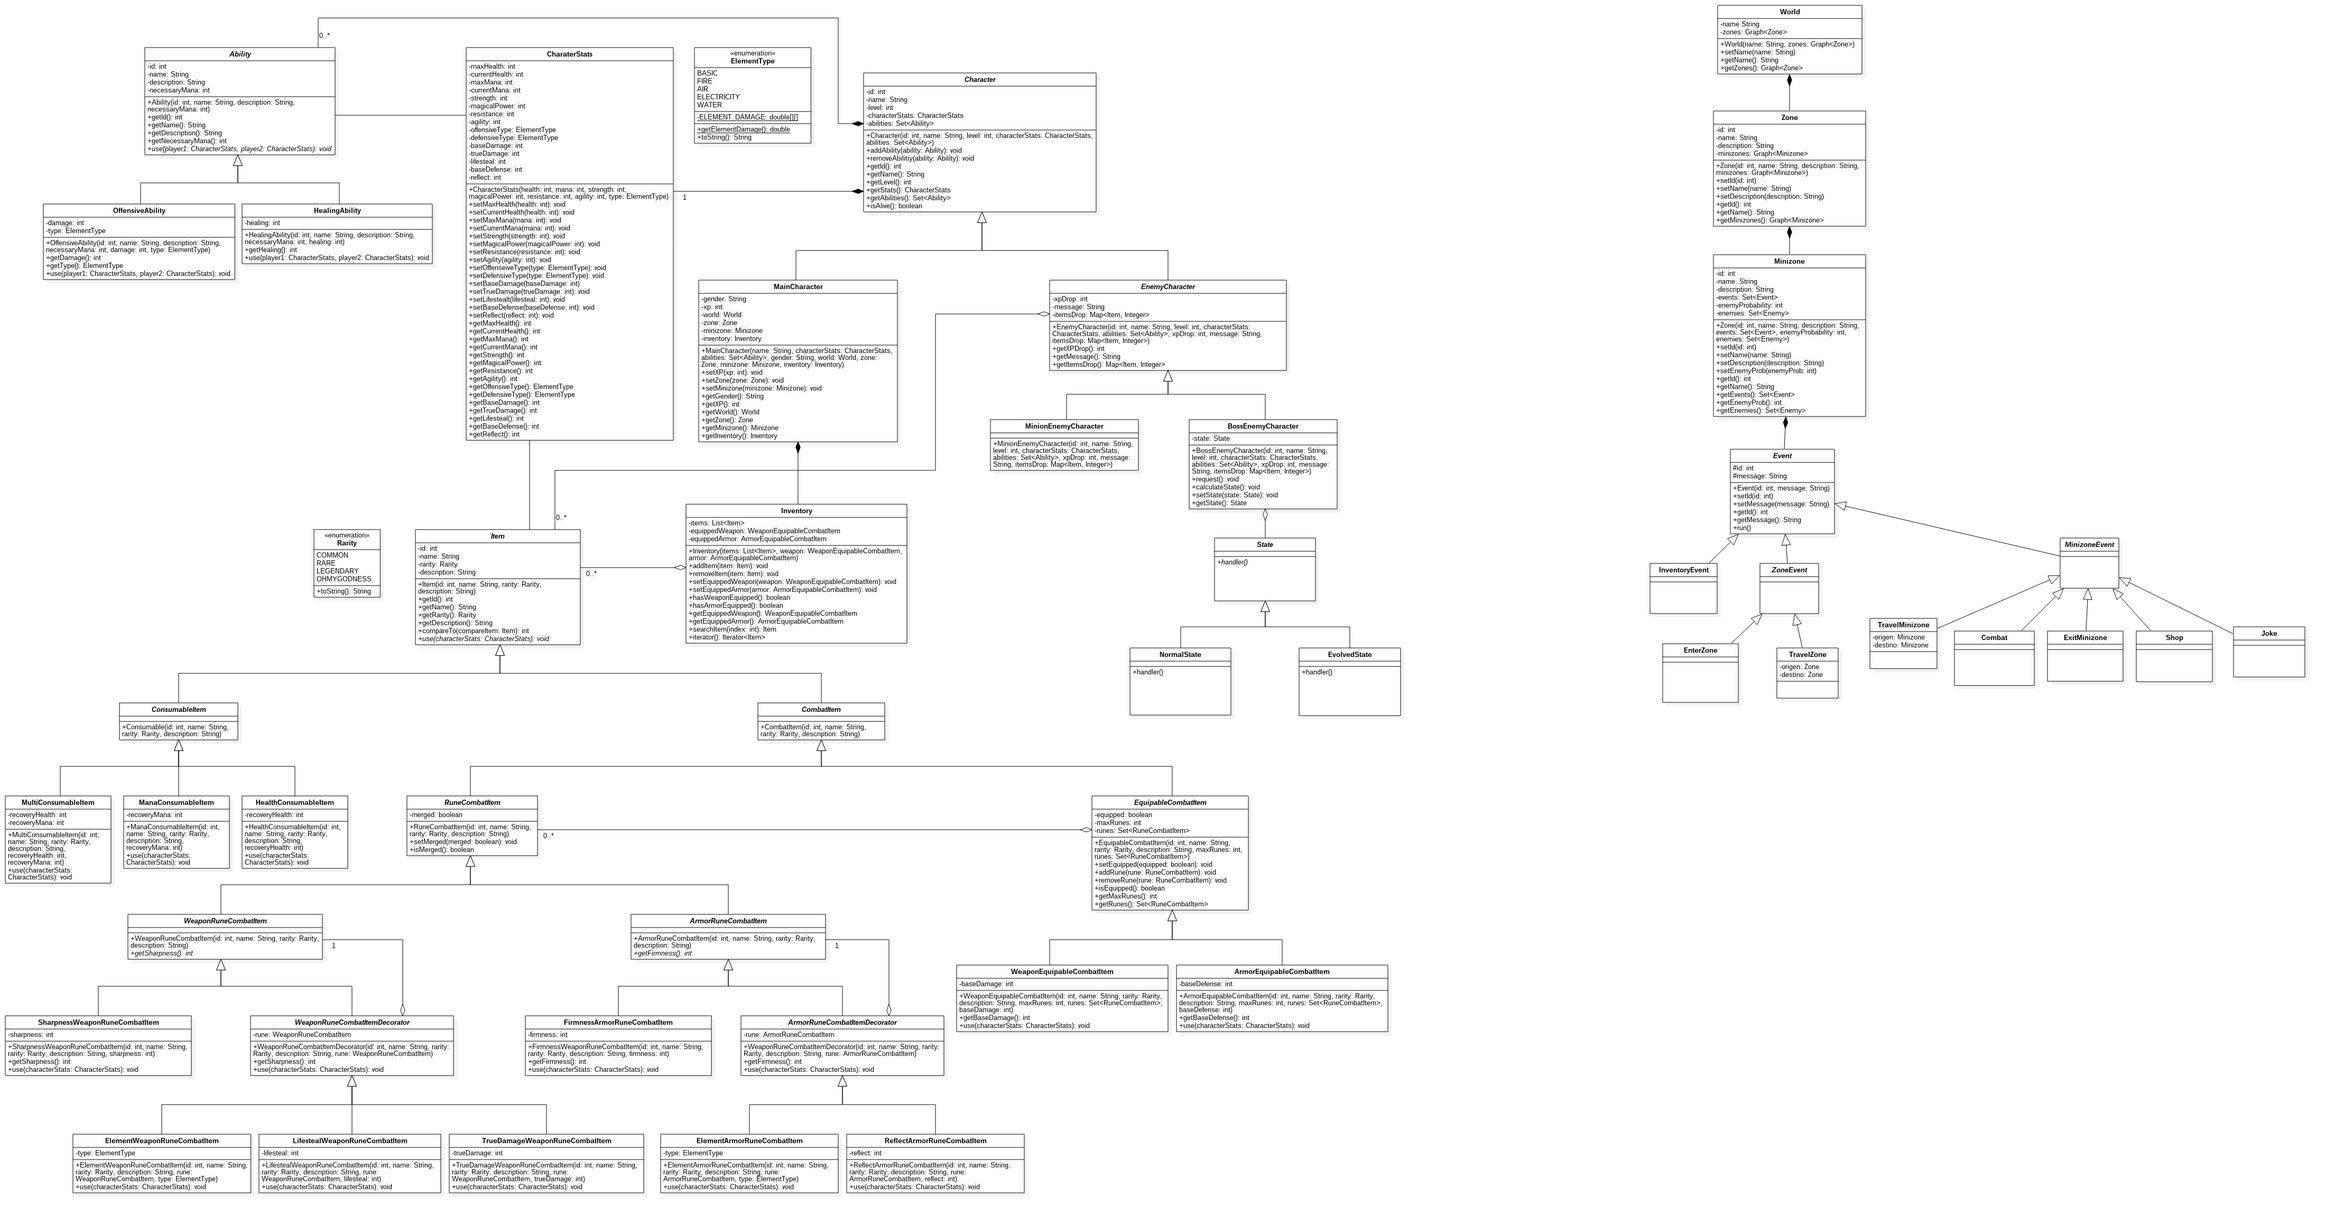
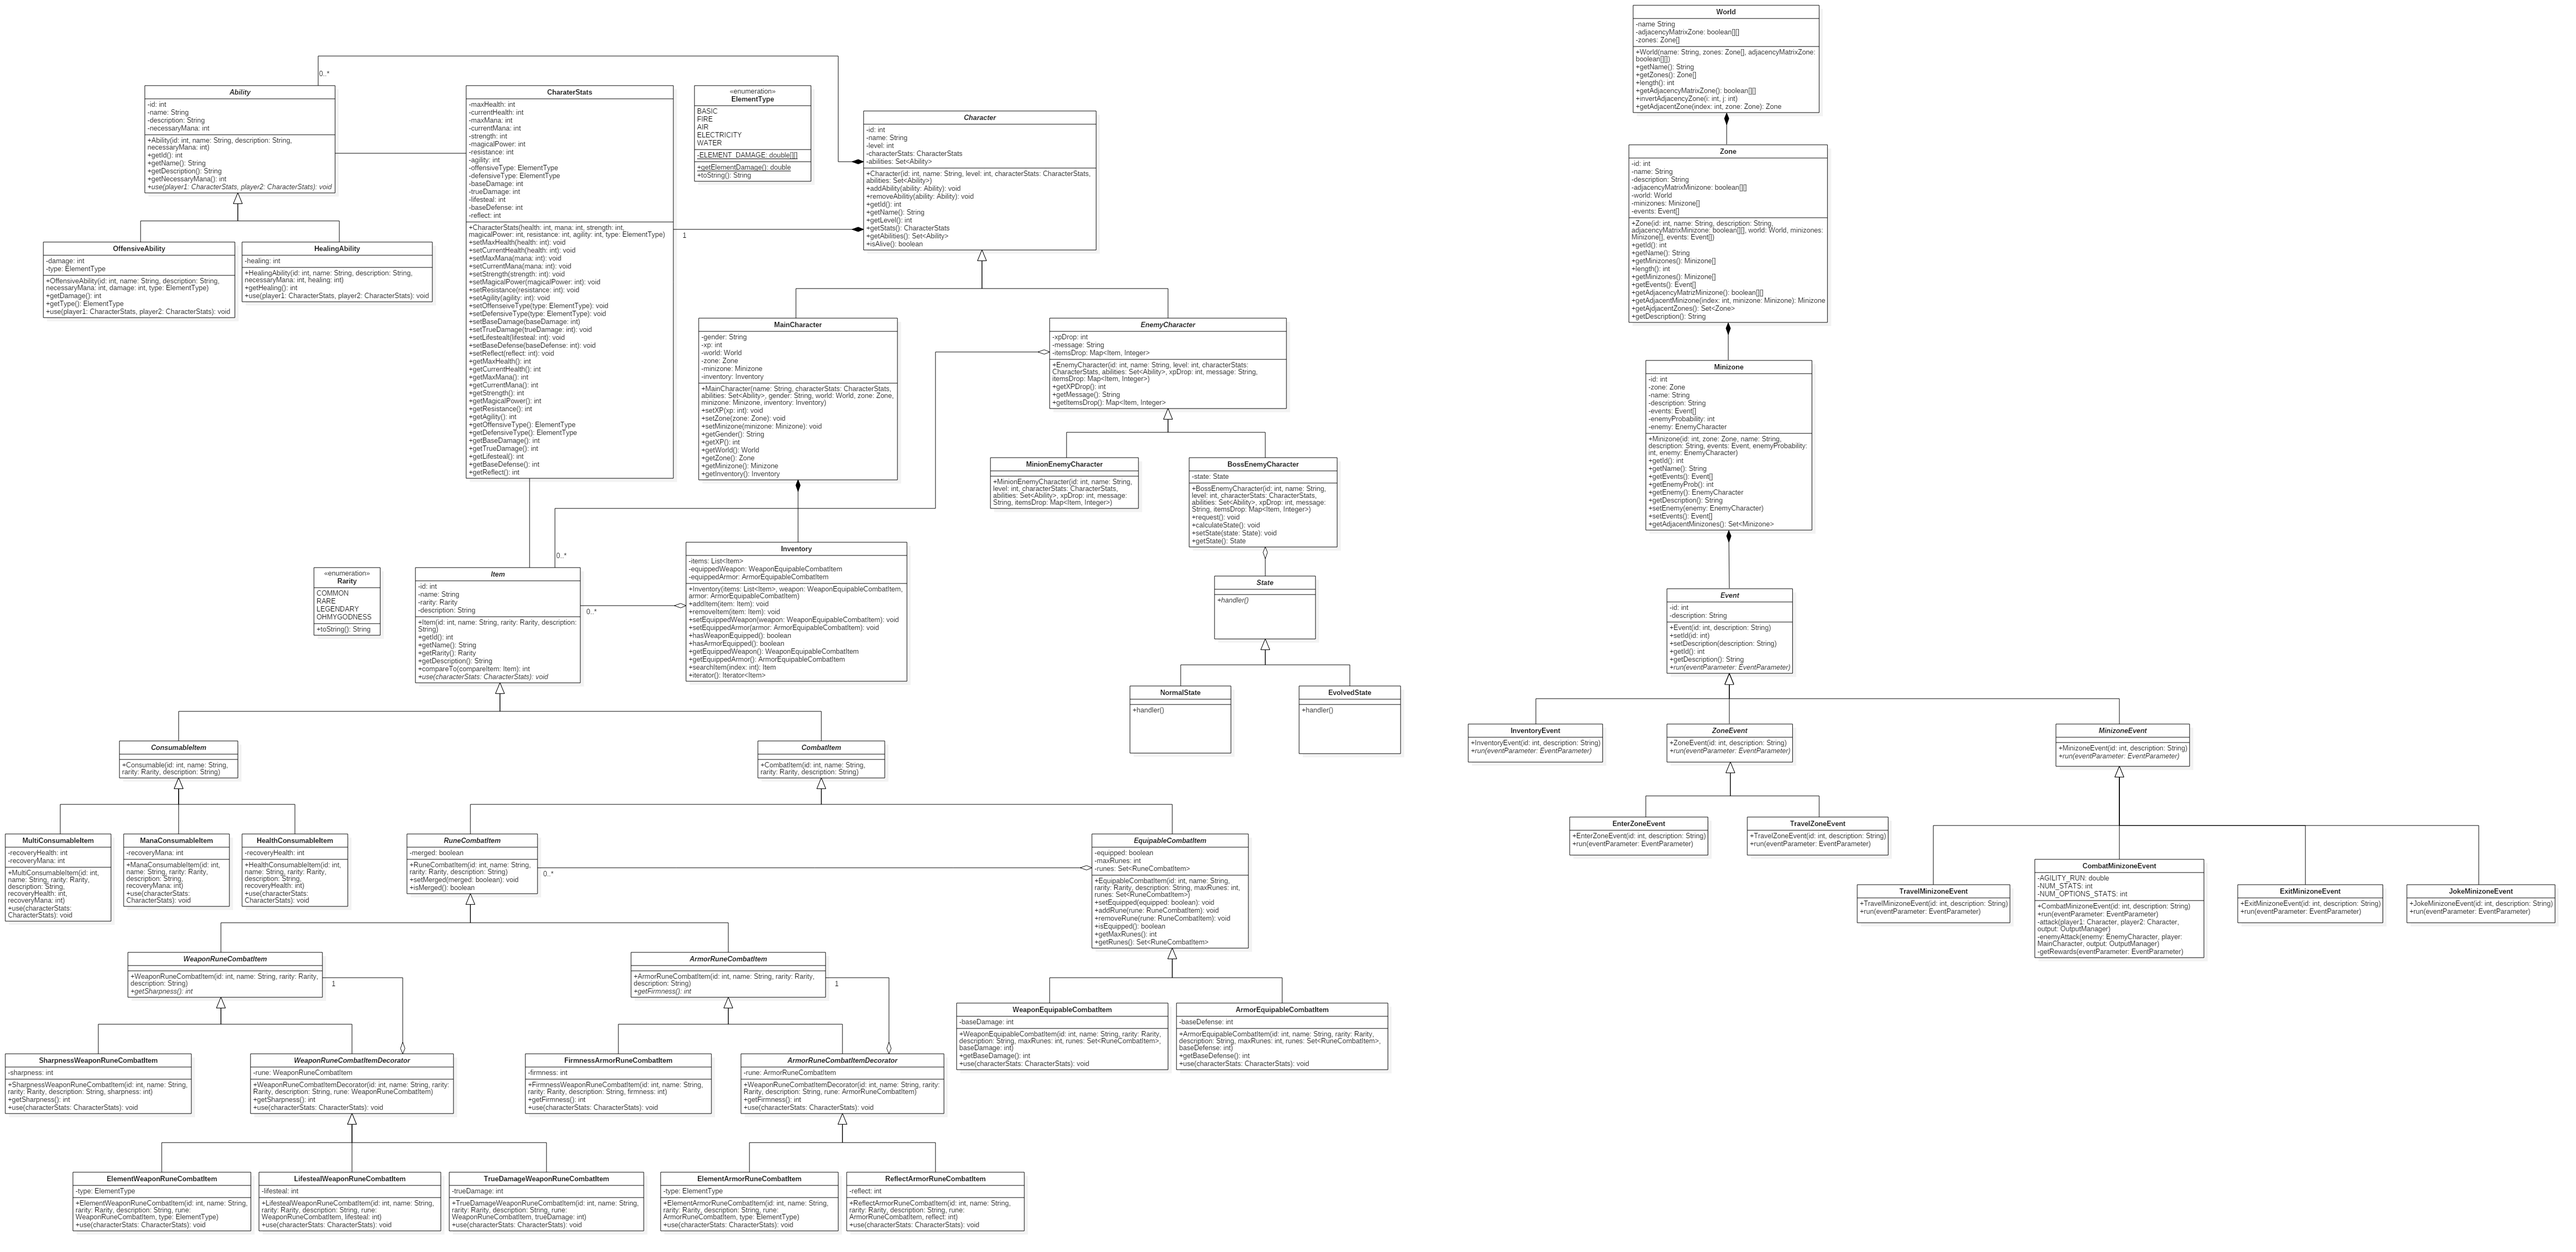
Updated UML Diagram + updated element types output + class names changes

diff --git a/game/src/main/java/com/projectdss/event/minizoneevent/CombatMinizoneEvent.java b/game/src/main/java/com/projectdss/event/minizoneevent/CombatMinizoneEvent.java
@@ -10,8 +10,7 @@ import com.projectdss.character.MainCharacter;
 import com.projectdss.character.EnemyCharacter;
 import com.projectdss.inventory.Inventory;
 import com.projectdss.Ability;
-import com.projectdss.ability.HealingAbility;
-import com.projectdss.ability.OffensiveAbility;
+import com.projectdss.ability.ElementAbility;
 import com.projectdss.Event;
 import com.projectdss.event.MinizoneEvent;
 import com.projectdss.event.EventParameter;
@@ -22,13 +21,13 @@ import com.projectdss.output.OutputManager;
  * 
  * 
  */
-public class CombatEvent extends MinizoneEvent {
+public class CombatMinizoneEvent extends MinizoneEvent {
 
     private static final double AGILITY_RUN = 1.5;
     private static final int NUM_STATS = 6;
     private static final int NUM_OPTIONS_STATS = 3;
 
-    public CombatEvent(int id, String description) {
+    public CombatMinizoneEvent(int id, String description) {
         super(id, description);
     }
 

diff --git a/game/src/main/java/com/projectdss/map/Zone.java b/game/src/main/java/com/projectdss/map/Zone.java
@@ -19,11 +19,12 @@ public class Zone {
     private final Event[] events;
     
     public Zone(int id, String name, String description,
-        boolean[][] adjacencyMatrixMinizone, Minizone[] minizones, Event[] events) {
+        boolean[][] adjacencyMatrixMinizone, World world, Minizone[] minizones, Event[] events) {
         this.id = id;
         this.name = name;
         this.description = description;
         this.adjacencyMatrixMinizone = adjacencyMatrixMinizone;
+        this.world = world;
         this.minizones = minizones;
         this.events = events;
     }
@@ -65,6 +66,7 @@ public class Zone {
                 ++counter;
             }
         }
+        return minizone;
     }
 
     public Set<Zone> getAdjacentZones() {

diff --git a/game/src/main/java/com/projectdss/event/minizoneevent/TravelMinizoneEvent.java b/game/src/main/java/com/projectdss/event/minizoneevent/TravelMinizoneEvent.java
@@ -9,8 +9,8 @@ import com.projectdss.map.Minizone;
  * 
  * @author Santiago Godoy Poce
  */
-public class TravelMinizone extends MinizoneEvent {
-    public TravelMinizone(int id, String description) {
+public class TravelMinizoneEvent extends MinizoneEvent {
+    public TravelMinizoneEvent(int id, String description) {
         super(id, description);
     }
 

diff --git a/game/src/main/java/com/projectdss/event/minizoneevent/JokeMinizoneEvent.java b/game/src/main/java/com/projectdss/event/minizoneevent/JokeMinizoneEvent.java
@@ -8,8 +8,8 @@ import com.projectdss.event.MinizoneEvent;
  * 
  * @author Santiago Godoy Poce
  */
-public class Joke extends MinizoneEvent {
-    public Joke(int id, String description) {
+public class JokeMinizoneEvent extends MinizoneEvent {
+    public JokeMinizoneEvent(int id, String description) {
         super(id, description);
     }
 

diff --git a/game/src/main/java/com/projectdss/event/minizoneevent/ExitMinizoneEvent.java b/game/src/main/java/com/projectdss/event/minizoneevent/ExitMinizoneEvent.java
@@ -10,8 +10,8 @@ import java.util.Set;
  * 
  * @author Santiago Godoy Poce
  */
-public class ExitMinizone extends MinizoneEvent {
-    public ExitMinizone(int id, String description) {
+public class ExitMinizoneEvent extends MinizoneEvent {
+    public ExitMinizoneEvent(int id, String description) {
         super(id, description);
     }
 

diff --git a/game/src/main/java/com/projectdss/event/zoneevent/EnterZoneEvent.java b/game/src/main/java/com/projectdss/event/zoneevent/EnterZoneEvent.java
@@ -9,8 +9,8 @@ import com.projectdss.event.ZoneEvent;
  * 
  * @author Santiago Godoy Poce
  */
-public class EnterZone extends ZoneEvent {
-    public EnterZone(int id, String description) {
+public class EnterZoneEvent extends ZoneEvent {
+    public EnterZoneEvent(int id, String description) {
         super(id, description);
     }
 

diff --git a/game/src/main/java/com/projectdss/event/zoneevent/TravelZoneEvent.java b/game/src/main/java/com/projectdss/event/zoneevent/TravelZoneEvent.java
@@ -9,8 +9,8 @@ import com.projectdss.map.Zone;
  * 
  * @author Santiago Godoy Poce
  */
-public class TravelZone extends ZoneEvent {
-    public TravelZone(int id, String description) {
+public class TravelZoneEvent extends ZoneEvent {
+    public TravelZoneEvent(int id, String description) {
         super(id, description);
     }
 

diff --git a/game/src/main/java/com/projectdss/event/MinizoneEvent.java b/game/src/main/java/com/projectdss/event/MinizoneEvent.java
@@ -12,7 +12,5 @@ public abstract class MinizoneEvent extends Event {
         super(id, description);
     }
 
-    public void run(EventParameter eventParameter) {
-
-    }
+    public abstract void run(EventParameter eventParameter);
 }

diff --git a/game/src/main/java/com/projectdss/map/World.java b/game/src/main/java/com/projectdss/map/World.java
@@ -47,5 +47,6 @@ public class World {
                 ++counter;
             }
         }
+        return zone;
     }
 }
